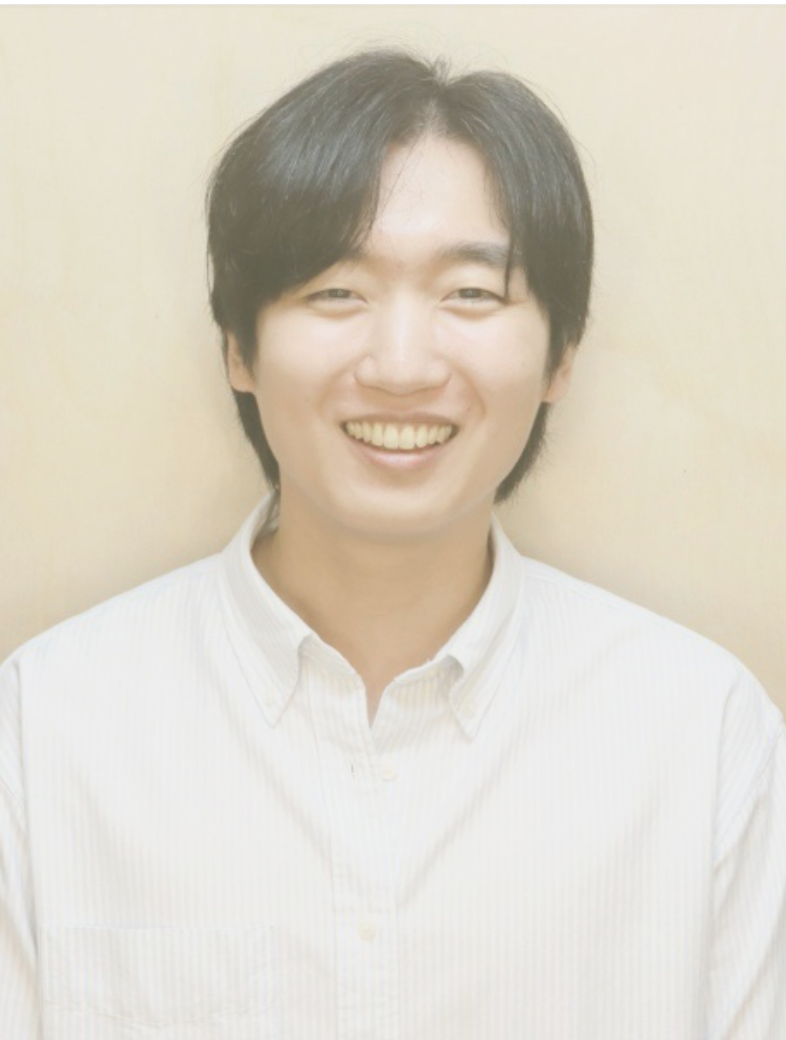
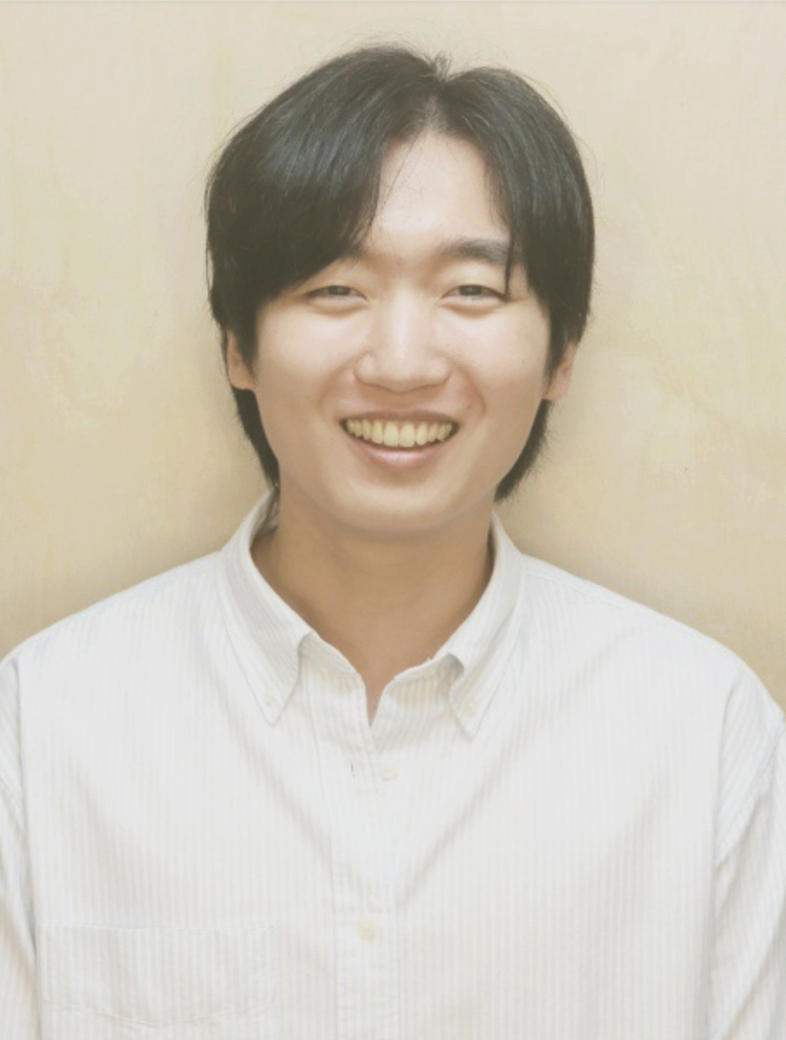
Revise blog notes, home profile layout, and Silverlining copy.

diff --git a/blog.html b/blog.html
@@ -153,18 +153,16 @@
               </svg>
               <span class="note-category__label">Representation Learning</span>
             </span>
-            Thoughts on text representations
+            What 'structure' carries
           </summary>
           <p class="essay-toggle__body">
-            Human-written text carries traces of how people understand the world.
-            In describing a situation, a writer gives it a particular structure, making some relationships explicit while leaving others for the reader to recognize.
-            What the writer chooses to explain, connect, or take for granted reflects an interpretation of the situation.
+            The structure of data (e.g., schema of a table, hierarchy of a document) can reflect the knowledge, practices, and constraints of the domain experts and organizations that produce and use it. 
+            Choices about what to record, which distinctions to preserve, and how information is organized can offer clues to expertise, established routines, and working conditions that are never fully articulated.
           </p>
           <p class="essay-toggle__body">
-            Learning from text may therefore offer indirect access to reasoning and tacit knowledge that are never fully articulated.
-            An explanation can show how evidence supports a conclusion, while a description can reveal which distinctions matter and what background knowledge is assumed.
-            These patterns can convey aspects of human thought even when the writer never describes the thinking behind them.
-            This is what interests me about text as a learning medium, and why I want to understand how representations can preserve the relationships that make these patterns available for learning.
+            The meaning of a structure depends partly on the purposes and practices that shape it. 
+            Understanding this context could help AI systems judge what information matters for a task and how it should be interpreted. 
+            These judgments could then guide assistance that reflects the priorities and constraints of the work, making it more responsive to how people use the data.
           </p>
         </details>
 
@@ -178,7 +176,33 @@
               </svg>
               <span class="note-category__label">Representation Learning</span>
             </span>
-            Understanding what lives between people
+            How AI forms beliefs
+          </summary>
+          <p class="essay-toggle__body">
+            I think of an AI model’s beliefs as working judgments about what is true or likely, given the available information.
+            These judgments guide interpretation and action and should remain responsive to changes in the evidence.
+            When an assumption changes, the conclusions that depend on it should be reassessed while those with sufficient independent support can remain.
+            That reassessment may lead to a revised conclusion or simply a change in confidence. 
+            In either case, the uncertainty should reflect the strength and limits of the available evidence.
+          </p>
+          <p class="essay-toggle__body">
+            Language provides a way to represent these judgments, but producing a claim is not the same as relying on it.
+            Autoregressive modeling defines a distribution over token sequences, but token probabilities alone do not establish coherent beliefs or calibrated confidence in the claims those sequences express.
+            What interests me is whether a claim expressed in one answer meaningfully constrains subsequent judgments, and whether revisions carry through to the judgments that depend on it.
+          </p>
+        </details>
+
+        <details class="essay-toggle reveal">
+          <summary class="essay-toggle__summary">
+            <span class="note-category note-category--representation" title="Representation Learning">
+              <svg viewBox="0 0 24 24" aria-hidden="true" focusable="false">
+                <path d="M12 3v3M3 11v5m18-5v5"/>
+                <rect x="5" y="6" width="14" height="14" rx="3"/>
+                <path d="M9 11v2m6-2v2m-6 3h6"/>
+              </svg>
+              <span class="note-category__label">Representation Learning</span>
+            </span>
+            Social intelligence of AI
           </summary>
           <p class="essay-toggle__body">
             Where understanding the world asks whether machines can interpret the reality around us, understanding human
@@ -197,47 +221,22 @@
 
         <details class="essay-toggle reveal">
           <summary class="essay-toggle__summary">
-            <span class="note-category note-category--representation" title="Representation Learning">
-              <svg viewBox="0 0 24 24" aria-hidden="true" focusable="false">
-                <path d="M12 3v3M3 11v5m18-5v5"/>
-                <rect x="5" y="6" width="14" height="14" rx="3"/>
-                <path d="M9 11v2m6-2v2m-6 3h6"/>
-              </svg>
-              <span class="note-category__label">Representation Learning</span>
-            </span>
-            How AI forms 'beliefs'
-          </summary>
-          <p class="essay-toggle__body">
-            I think of an AI model’s beliefs as working judgments about what is true or likely, given the available information.
-            These judgments guide interpretation and action, and their dependencies matter when evidence changes.
-            Revising an assumption should prompt reconsideration of the conclusions that rely on it, while allowing those with sufficient independent support to remain.
-            Sometimes the appropriate update is a change in confidence rather than a reversal; uncertainty should reflect the strength and limits of the available support.
-          </p>
-          <p class="essay-toggle__body">
-            Language provides a way to express these judgments, but producing a claim is not the same as relying on it.
-            Autoregressive modeling defines a distribution over token sequences, but token probabilities alone do not establish coherent beliefs or calibrated confidence in the claims those sequences express.
-            What interests me is whether a claim expressed in one answer meaningfully constrains subsequent judgments, and whether revisions carry through to the judgments that depend on it.
-          </p>
-        </details>
-
-        <details class="essay-toggle reveal">
-          <summary class="essay-toggle__summary">
             <span class="note-category note-category--interaction" title="Human-AI Interaction">
               <svg viewBox="0 0 24 24" aria-hidden="true" focusable="false">
                 <path stroke-width="1.5" d="M7.5 21 3 16.5m0 0L7.5 12M3 16.5h13.5m0-13.5L21 7.5m0 0L16.5 12M21 7.5H7.5"/>
               </svg>
               <span class="note-category__label">Human-AI Interaction</span>
             </span>
-            Who’s learning through an interface?
+            How interfaces shape learning
           </summary>
           <p class="essay-toggle__body">
-            I see the translation layer between machine representations and human experience as a starting point for system design.
-            For people, the interface should help them understand the system’s behavior, evaluate its responses, and stay in control of the interaction.
+            An interface helps people understand a system’s behavior, evaluate its responses, and stay in control of the interaction.
+            I see this translation layer between machine and human experience as a starting point for system design.
             What a system makes visible and how people can respond to it shape the feedback available to the model.
-            A rejected answer may be factually wrong or simply miss the person’s goal, and the interface can help reveal that difference.
+            A rejected answer may be factually wrong or simply miss the person’s goal, and a well-designed interface can help reveal that difference.
           </p>
           <p class="essay-toggle__body">
-            These distinctions should inform learning objectives and algorithms from the outset.
+            These distinctions inform learning objectives and algorithms from the outset.
             In turn, the model’s uncertainty can guide what it asks or reveals next, giving people opportunities to clarify their goals or correct its interpretation.
             Learning and interaction can be designed together, with each response reflecting the system’s understanding while shaping what it has a chance to learn next.
           </p>
@@ -260,6 +259,24 @@
             but what people can express, discuss, and come to understand together. Exploring these possibilities requires building prototypes and designing and testing these experiences with people.
           </p>
         </details>
+
+        <!-- <details class="essay-toggle reveal">
+          <summary class="essay-toggle__summary">
+            <span class="note-category note-category--design" title="Design">
+              <svg viewBox="0 0 24 24" aria-hidden="true" focusable="false">
+                <path d="M12 3a9 9 0 1 0 0 18h1a2 2 0 0 0 1.6-3.2 1.7 1.7 0 0 1 1.4-2.7h1A4 4 0 0 0 21 11c0-4.4-4-8-9-8Z"/>
+                <circle cx="7.5" cy="10" r=".75"/>
+                <circle cx="11" cy="6.5" r=".75"/>
+                <circle cx="16" cy="8" r=".75"/>
+              </svg>
+              <span class="note-category__label">Design</span>
+            </span>
+            Creative process, is it doomed?
+          </summary>
+          <p class="essay-toggle__body">
+            Lorem Ipsum
+          </p>
+        </details> -->
 
         <details class="essay-toggle reveal">
           <summary class="essay-toggle__summary">

diff --git a/project-silverlining.html b/project-silverlining.html
@@ -42,7 +42,7 @@
                 <p>Shared equally: Desk Research, 3D modeling, Film</p>
               </div>
               <div>
-                <p>Woojun Jung: Journey map, Form development, Technical approach</p>
+                <p>Woojun Jung: Observation, Form development, Technical approach</p>
                 <p>Yeongjun Song: Interviews, Rendering</p>
               </div>
             </dd>
@@ -461,7 +461,7 @@
           <div class="project-section__copy">
             <h2 id="opportunity-title">Adapt the reach of light.<br />Preserve the atmosphere.</h2>
             <div class="project-section__description">
-              <p>People were not simply asking for a brighter room. They wanted light where it was useful, an atmosphere that suited the moment, and fewer adjustments as the area in use changed. The interviews and journey map pointed to three connected opportunities.</p>
+              <p>People wanted light where it was useful, an atmosphere that suited the moment, and fewer adjustments as the area in use changed. The interviews and journey map pointed to three connected opportunities.</p>
             </div>
           </div>
         </header>
@@ -482,7 +482,7 @@
             <p>The gaps (At the rack, Cleanup) led us to explore presence-based adaptation that reduces manual adjustment while allowing people to retain a preferred setting.</p>
           </article>
         </div>
-        <p class="project-question">A light that automatically shifts between two configurations—<br>General Ambient and Task + Mood Ambient—using presence as a cue.</p>
+        <!-- <p class="project-question">A light that automatically shifts between two configurations—<br>General Ambient and Task + Mood Ambient—using presence as a cue.</p> -->
       </section>
 
       <section class="project-section sl-response" aria-labelledby="response-title">
@@ -523,17 +523,17 @@
             </div>
           </div>
         </header>
-        <div class="sl-scenarios">
-          <article><span class="sl-scenario-index">01</span><h3>Open up the space</h3><p>Preparing a meal or clearing the table brings the surrounding space into use. In Unveil, the globe lowers to spread light more broadly, extending illumination beyond the tabletop.</p></article>
-          <article><span class="sl-scenario-index">02</span><h3>Settle around the table</h3><p>In Veil, light concentrates on the tabletop while an upward component reflects off the ceiling. Reading and lingering in conversation can find their place within the same setting.</p></article>
+        <!-- <div class="sl-scenarios">
+          <article><span class="sl-scenario-index">01</span><h3>Open up the space</h3><p>In Unveil, the globe lowers to spread light more broadly, extending illumination beyond the tabletop.</p></article>
+          <article><span class="sl-scenario-index">02</span><h3>Settle around the table</h3><p>In Veil, light concentrates on the tabletop while an upward component reflects off the ceiling.</p></article>
           <article><span class="sl-scenario-index">03</span><h3>Keep the atmosphere</h3><p>A brief step in or away need not change the whole room. The proposed interaction holds the current setting through short movements.</p></article>
-        </div>
+        </div> -->
         <figure class="project-figure project-film">
           <video controls playsinline preload="none" poster="assets/projects/silverlining/silverlining_demo_poster.webp" aria-label="Silverlining concept film showing the proposed physical interaction.">
             <source src="assets/projects/silverlining/silverlining_demo-web.mp4" type="video/mp4" />
             Your browser cannot play this film. <a href="assets/projects/silverlining/silverlining_demo-web.mp4">Download the Silverlining film</a>.
           </video>
-          <figcaption><span>Silverlining / Concept film</span><span>Staged experience visualization; sensing simulated.</span></figcaption>
+          <figcaption><span>Concept film (staged experience visualization; sensing simulated): The proposed interaction holds the current setting through short movements.</span></figcaption>
           <p class="project-film__fallback" hidden>This browser could not play the film. <a href="assets/projects/silverlining/silverlining_demo-web.mp4">Download the video</a>.</p>
         </figure>
 

diff --git a/css/site.css b/css/site.css
@@ -438,7 +438,7 @@ body.is-morphing #morphTag { opacity: 0 !important; transition: none; }
 
 /* ---------- Profile: hanging-label rows ---------- */
 .profile-top {
-  --profile-photo-width: 207px;
+  --profile-photo-width: 198px;
   /* Laptop / tablet (default) */
   padding-top: 60px;
   padding-bottom: 180px;
@@ -530,7 +530,8 @@ body.is-morphing #morphTag { opacity: 0 !important; transition: none; }
     display: grid;
     grid-template-columns: var(--profile-photo-width, 200px) minmax(0, 1fr);
     grid-template-rows: auto auto 1fr;
-    column-gap: clamp(48px, 5vw, 80px);
+    /* Preserve the 1500px layout on wider screens. */
+    column-gap: clamp(48px, 5vw, 75px);
     row-gap: 24px;
     align-items: start;
     max-width: calc((var(--container-max) + var(--gutter) * 2) * 2 / 3 + 30px + var(--profile-width-extra, 0px) + var(--profile-photo-width, 200px) - 200px);
@@ -604,7 +605,7 @@ body.is-morphing #morphTag { opacity: 0 !important; transition: none; }
    never participate in the original photo / Biography / Links layout. */
 .profile-content-fade {
   --profile-fade-top-size: 130px;
-  --profile-fade-bottom-size: 165px;
+  --profile-fade-bottom-size: 185px;
   position: fixed;
   inset: 0;
   z-index: 50;

diff --git a/index.html b/index.html
@@ -7,7 +7,7 @@
   <meta name="description" content="Woojun Jung — graduate researcher at the DAIS Lab, Korea University, working across machine learning, data mining, and human–AI interaction, with a background in industrial design." />
   <link rel="icon" type="image/png" href="assets/woojun_logo.png" />
   <link rel="stylesheet" href="css/tokens.css" />
-  <link rel="stylesheet" href="css/site.css?v=home-anchor-1" />
+  <link rel="stylesheet" href="css/site.css?v=home-gap-75-1" />
   <script>
     // Arriving with a #hash (e.g. from the Research/Projects nav) should land
     // instantly, not animate up from the top — override the global smooth
@@ -79,7 +79,7 @@
         </div>
 
         <div class="row reveal">
-          <div class="row__label section-label">Biography.</div>
+          <!-- <div class="row__label section-label">About.</div> -->
           <div class="row__body profile-biography">
             <p>I am a graduate student at the DAIS Lab, Korea University, advised by Prof. Susik Yoon.
               My primary research focus is <a href="research.html?topic=ml-dm">Representation Learning</a> and
